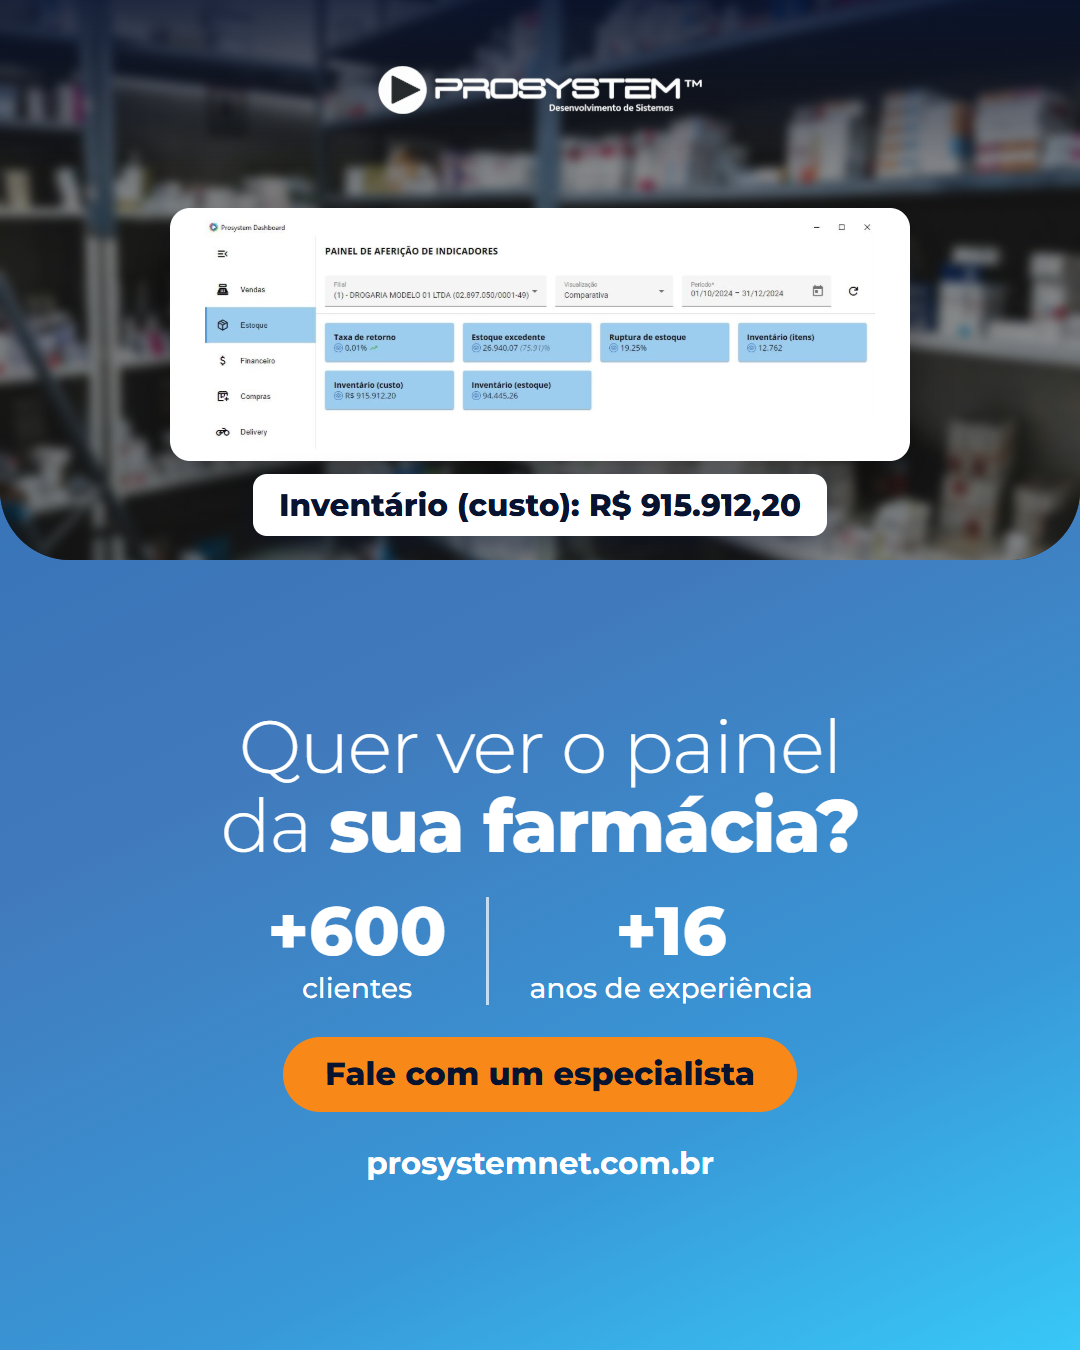
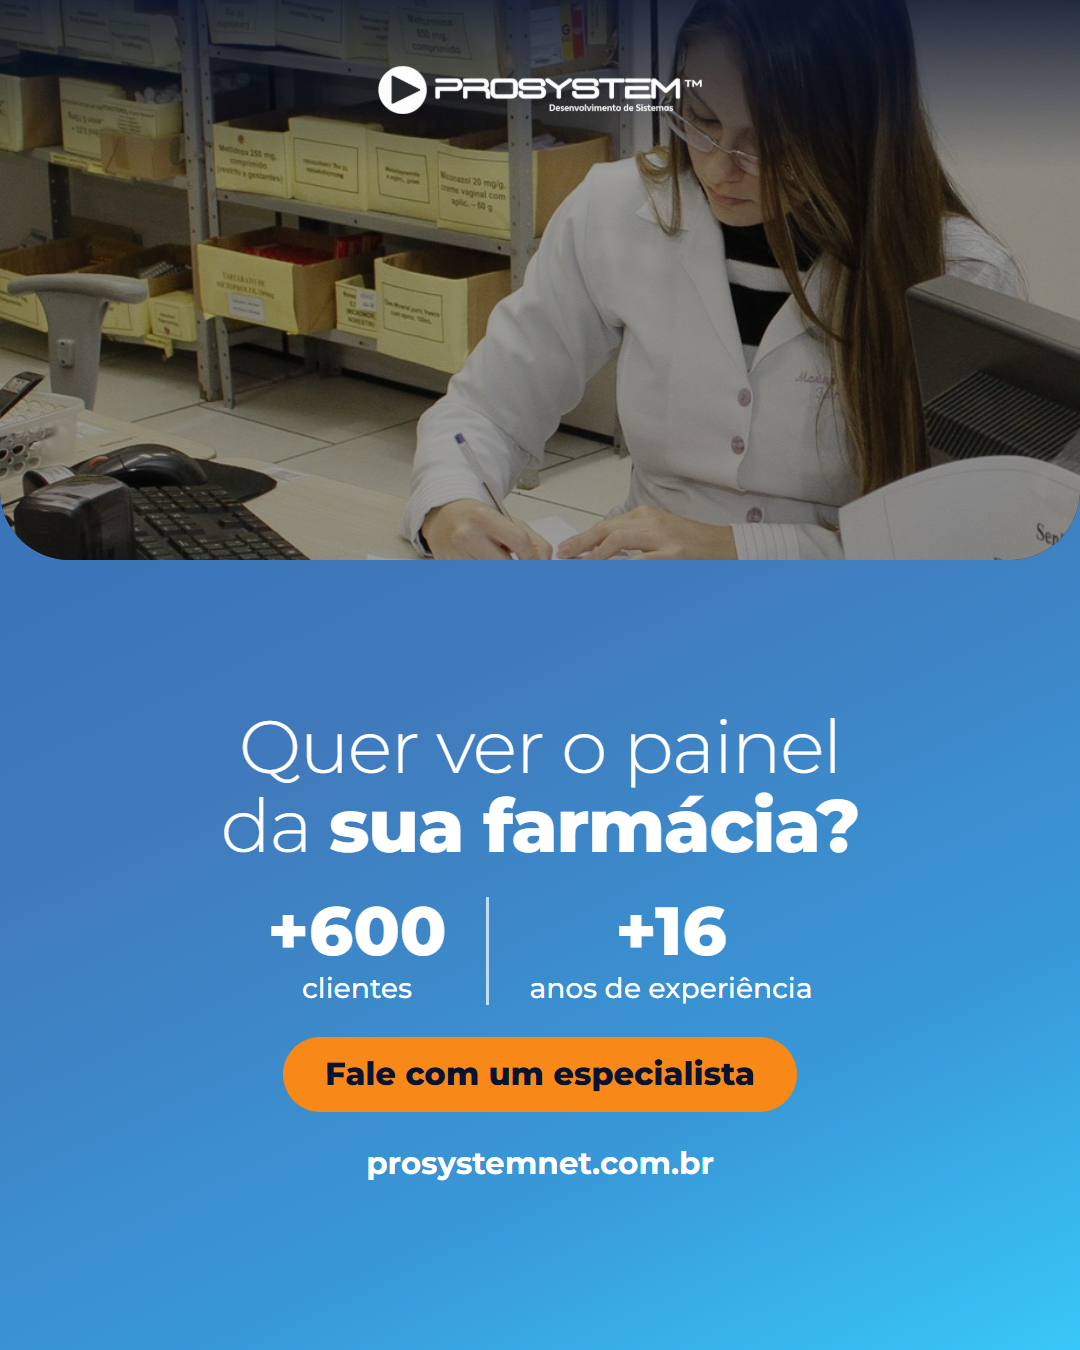
Carrossel reforma tributária (04/11) refeito: capa sem tela, tela só no slide 5, foto nova no final; reagendado para repostar

diff --git a/outputs/criativos/nov-dez/pecas-dados.js b/outputs/criativos/nov-dez/pecas-dados.js
@@ -6,18 +6,18 @@ const CTA = 'Fale com um especialista pelo link da bio.';
 
 const P = [
 { data: 'Qua 04/11', seg: 'Farmácia', id: 'carrossel-farmacia-reforma-tributaria-v1', travada: true, semMockup: true, tipo: 'v2', tema: 'azul', formato: 'Carrossel V2',
-  capa: { foto: FOTO_PR, tela: 'painel-estoque', titulo: 'Em 2027 o imposto muda. <b>Quanto vale o seu estoque?</b>', apoio: 'A virada é em 1º de janeiro.' },
+  capa: { foto: FOTO_PR, titulo: 'Em 2027 o imposto muda. <b>Quanto vale o seu estoque?</b>', apoio: 'A virada é em 1º de janeiro.' },
   itens: [
     { foto: FOTO_PR, titulo: 'PIS e Cofins <b>acabam.</b>', apoio: 'Entra a CBS, o imposto novo. A taxa ainda depende do Senado.' },
     { foto: FOTO_FA, titulo: 'Remédio paga <b>menos.</b>', apoio: 'A lei corta 60% do imposto novo do remédio registrado. Alguns ficam com zero.' },
     { foto: 'calculadora', titulo: 'O estoque entra na <b>conta da virada.</b>', apoio: 'Pergunte ao contador como ficam os produtos que você já comprou.' },
   ],
   sol: { foto: FOTO_PR, tela: 'painel-estoque', titulo: 'Seu estoque em um só painel', apoio: 'Itens e custo na mesma tela. Painel de indicadores, plano Plus.' },
-  fim: { foto: FOTO_PR, tela: 'painel-estoque', titulo: 'Quer ver o painel da <b>sua farmácia?</b>' },
+  fim: { foto: 'farmaceutica-receita', titulo: 'Quer ver o painel da <b>sua farmácia?</b>' },
   kw: 'reforma tributária na farmácia',
   cap: `Reforma tributária na farmácia em 2027: o que conferir antes de 1º de janeiro.\n\nO PIS e a Cofins acabam e entra a CBS, o imposto novo. Remédio registrado paga menos, mas a conta de quem tem estoque precisa ser feita com o contador. E essa conversa começa por uma pergunta simples: quanto você tem na prateleira hoje?\n\nNo plano Plus do Prosystem, o painel mostra itens e custo do estoque na mesma tela.\n\n${CTA}`,
   tags: '#reformatributaria #gestaodefarmacia #sistemaparafarmacia #drogaria',
-  alts: ['Painel do Prosystem sobre prateleiras de farmácia, com o título: em 2027 o imposto muda, quanto vale o seu estoque?', 'Prateleiras de farmácia e o texto: PIS e Cofins acabam, entra a CBS.', 'Farmacêutica pegando um produto na prateleira e o texto: remédio paga menos.', 'Calculadora e caneta sobre papel e o texto: o estoque entra na conta da virada.', 'Painel do Prosystem com itens e custo do estoque, plano Plus.', 'Painel do Prosystem e o convite para falar com um especialista.'],
+  alts: ['Prateleiras de farmácia desfocadas, com o título: em 2027 o imposto muda, quanto vale o seu estoque?', 'Prateleiras de farmácia e o texto: PIS e Cofins acabam, entra a CBS.', 'Farmacêutica pegando um produto na prateleira e o texto: remédio paga menos.', 'Calculadora e caneta sobre papel e o texto: o estoque entra na conta da virada.', 'Painel do Prosystem com itens e custo do estoque, plano Plus.', 'Farmacêutica com uma receita e o convite para falar com um especialista.'],
   conferir: ['Taxa da CBS: 11,3% é cálculo do TCU; o Senado decide até dezembro. A peça não cita o número.', 'Não prometer economia nem crédito de estoque.', 'A tela mostra "Drogaria Modelo" com um CNPJ, embora o LEIA-ME das telas diga que os CNPJs estão cobertos. O dado é fictício; cubra no mockup.'] },
 
 { data: 'Sex 06/11', seg: 'Padaria', id: 'carrossel-padaria-reforma-tributaria-v2', travada: true, tipo: 'v3', tema: 'lar', formato: 'Carrossel V3',

diff --git a/outputs/criativos/nov-dez/legendas.md b/outputs/criativos/nov-dez/legendas.md
@@ -114,12 +114,12 @@ Fale com um especialista pelo link da bio.
 
 **Texto alternativo:**
 
-1. Painel do Prosystem sobre prateleiras de farmácia, com o título: em 2027 o imposto muda, quanto vale o seu estoque?
+1. Prateleiras de farmácia desfocadas, com o título: em 2027 o imposto muda, quanto vale o seu estoque?
 2. Prateleiras de farmácia e o texto: PIS e Cofins acabam, entra a CBS.
 3. Farmacêutica pegando um produto na prateleira e o texto: remédio paga menos.
 4. Calculadora e caneta sobre papel e o texto: o estoque entra na conta da virada.
 5. Painel do Prosystem com itens e custo do estoque, plano Plus.
-6. Painel do Prosystem e o convite para falar com um especialista.
+6. Farmacêutica com uma receita e o convite para falar com um especialista.
 
 **Conferir antes de publicar:**
 
